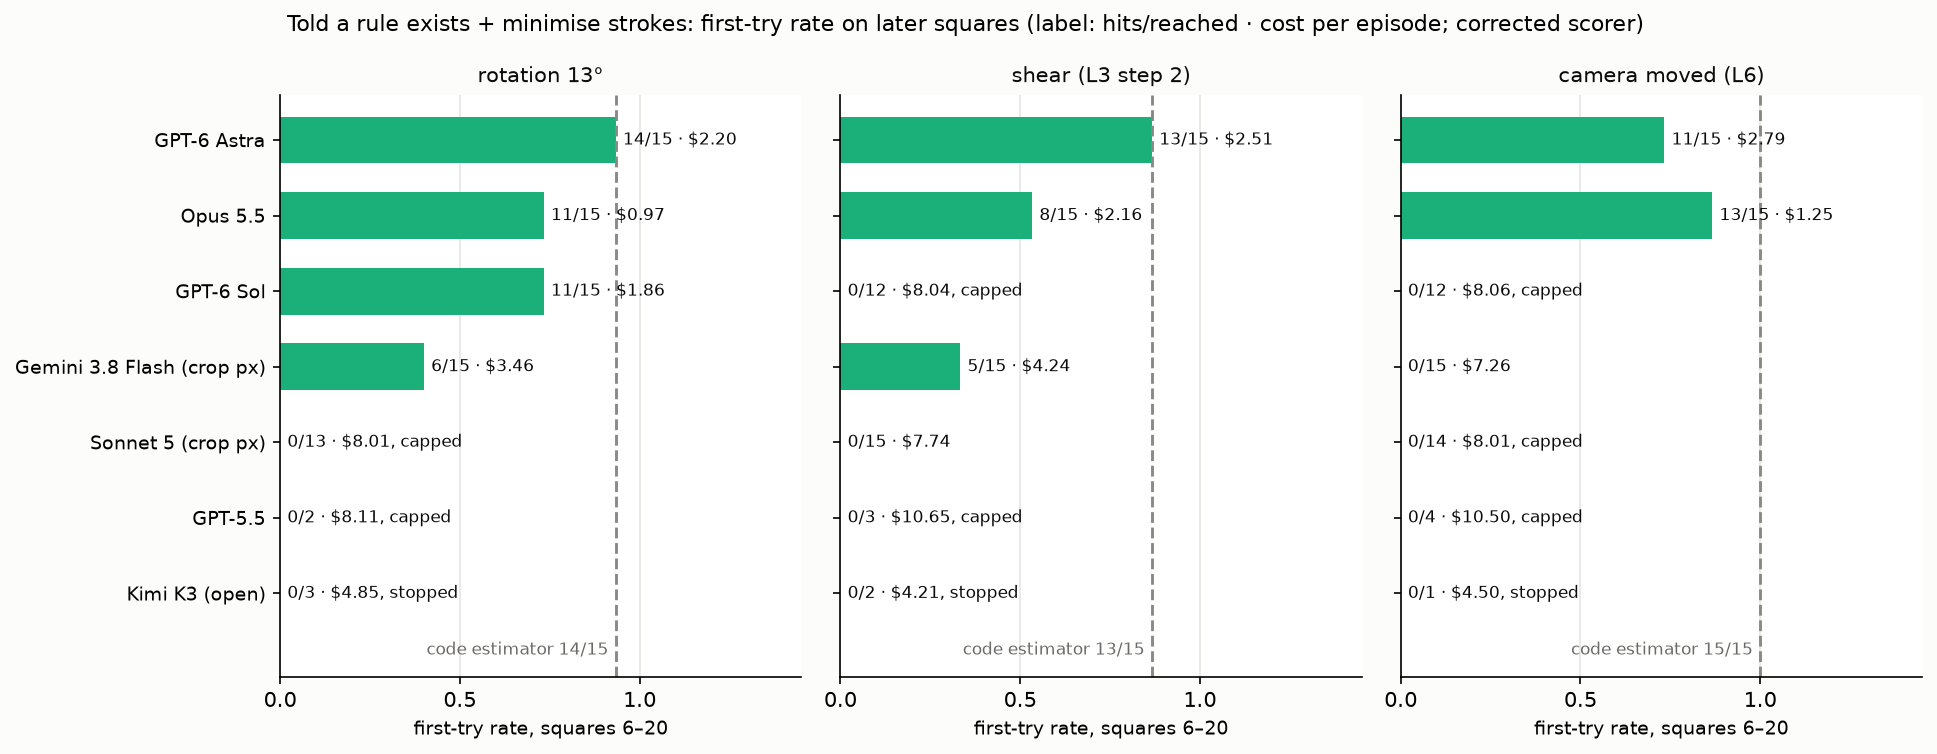
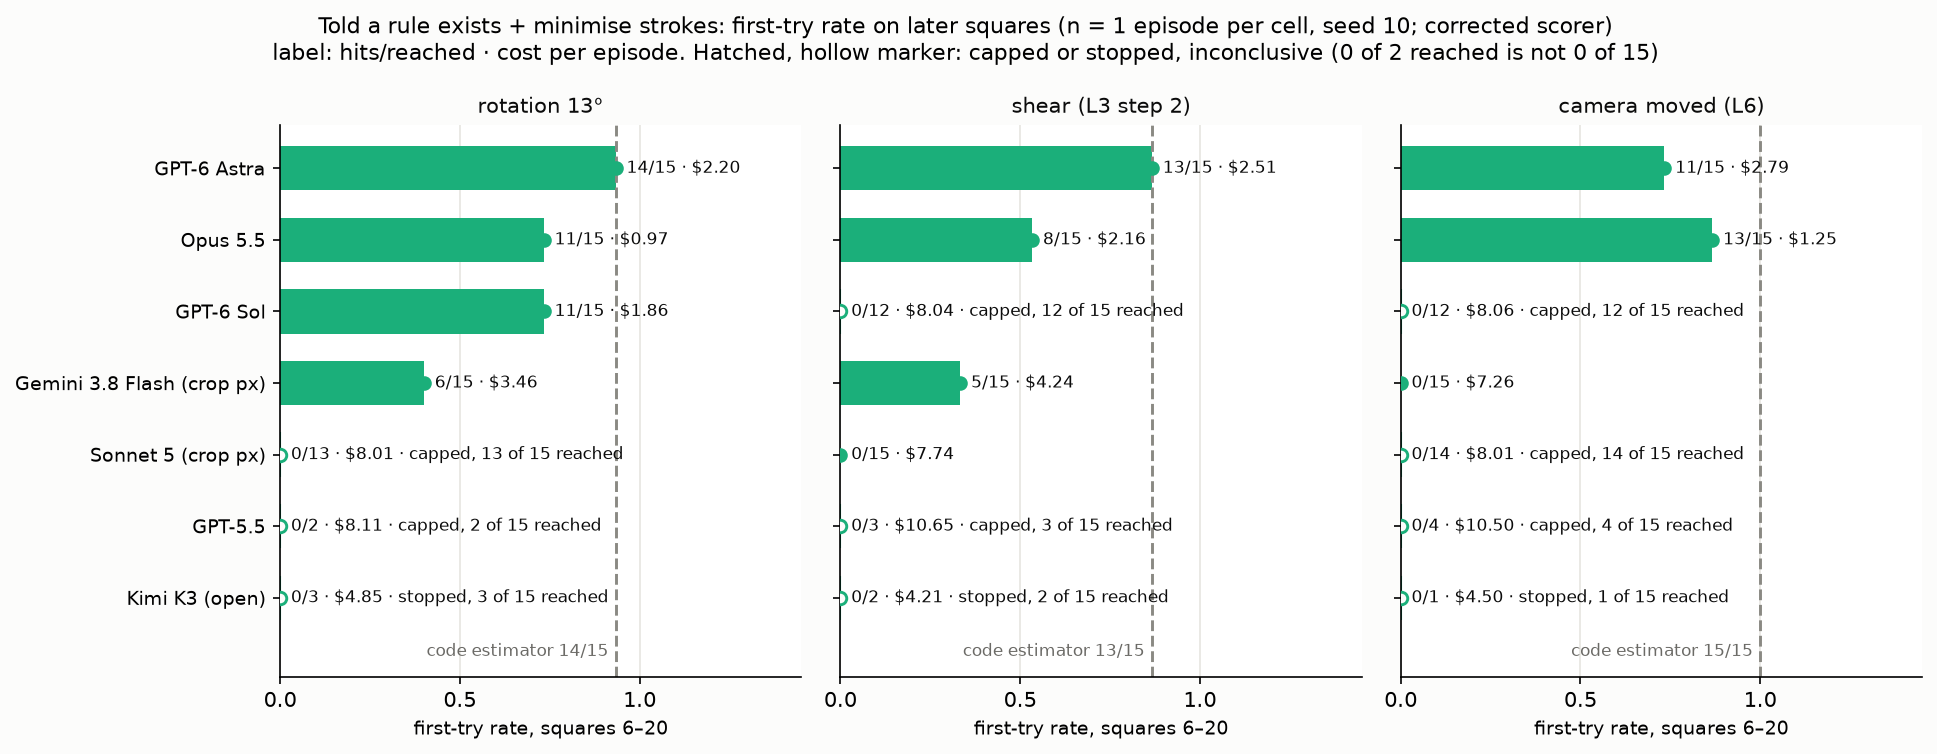
Figures state the evidence level and mark inconclusive cells; table name matches docs
- Every study chart title now says "n = 1 episode per cell, seed 10" (computed from the runs).
- A capped or stopped episode is drawn differently from a complete one: hatched bar with a hollow end marker and
  "capped, 2 of 15 reached" in the bars; the never-reached squares hatched in the grid. 0/2 no longer looks
  like 0/15.
- `freehand figures` writes informed_summary.csv (informed_summary_legacy_scorer.csv under --scorer legacy),
  the names tracked in docs/figures, and warns when the runs have no episode of the chosen arm.

docs/figures regenerated: only titles, labels and the inconclusive styling changed; both CSVs are byte-identical.

diff --git a/src/freehand/analysis/figures.py b/src/freehand/analysis/figures.py
@@ -6,10 +6,14 @@ are regenerated by this package from the imported runs:
 
   learning_curves_grid.png   rows = models (ordered by pooled first-try rate on the later squares), columns = rules;
                              first-try hit per post-change square (dots) and its 3-square running mean (line) for the
-                             focus arm, the ideal code estimator dashed, the silent arm faint where it exists
-  first_try_bars.png         later-square first-try rate per model, one panel per rule, the estimator as a line
+                             focus arm, the ideal code estimator dashed, the silent arm faint where it exists; squares
+                             a capped or stopped episode never reached are hatched
+  first_try_bars.png         later-square first-try rate per model, one panel per rule, the estimator as a line;
+                             capped or stopped episodes are hatched with a hollow end marker (0/2 reached is not 0/15)
   learning_curves_all_arms.png   every arm of the models that ran all of them (Opus 5.5, GPT-6 Astra)
-  summary.csv                model x rule for the focus arm, the historical columns
+  informed_summary.csv       model x rule for the focus arm, the historical columns (`<arm>_summary.csv` for another
+                             arm; `_legacy_scorer` appended under --scorer legacy)
+Every title states the evidence level: episodes per cell and the seeds.
 
 `scorer="corrected"` (default) uses freehand.scoring (an interrupted square whose first stroke missed counts as a
 miss); `scorer="legacy"` reproduces the historical per-square-results scorer, to check parity with the old reports.
@@ -17,6 +21,8 @@ miss); `scorer="legacy"` reproduces the historical per-square-results scorer, to
 from __future__ import annotations
 
 import csv
+import warnings
+from collections import Counter
 from pathlib import Path
 
 import numpy as np
@@ -124,6 +130,27 @@ def _status_label(r: dict) -> str:
     return cost if r["status"] == "complete" else f"{cost} · {r['status']} at sq {r['squares_done']}"
 
 
+def evidence(rows: list[dict]) -> str:
+    """The evidence level of the model rows, for chart titles: "n = 1 episode per cell, seed 10"."""
+    models = [r for r in rows if r["kind"] == "model"]
+    per_cell = Counter((r["agent"], r["perturbation"], r["arm"]) for r in models)
+    lo, n = min(per_cell.values(), default=0), max(per_cell.values(), default=0)
+    seeds = sorted({r["seed"] for r in models})
+    count = f"n = {n}" if lo == n else f"n = {lo}-{n}"
+    return (f"{count} episode{'s' if n != 1 else ''} per cell, "
+            + (f"seed {seeds[0]}" if len(seeds) == 1 else f"seeds {', '.join(map(str, seeds))}"))
+
+
+def _inconclusive(r: dict) -> bool:
+    return r["status"] != "complete"
+
+
+def _reached(r: dict) -> tuple[int, int]:
+    """(later squares reached, later squares planned)."""
+    later = r["curve"][1:]
+    return sum(v is not None for v in later), len(later)
+
+
 # ---------------------------------------------------------------- figures
 def learning_curves_grid(rows: list[dict], out_png: Path, arm: str = FOCUS_ARM, title: str | None = None) -> None:
     plt = _plt()
@@ -141,6 +168,12 @@ def learning_curves_grid(rows: list[dict], out_png: Path, arm: str = FOCUS_ARM, 
                 ax.plot(_xs(sil), _mean3(sil["curve"])[1], color=C_SILENT, lw=1.6, alpha=0.35,
                         label="silent (same model)")
             r = find(rows, agent, p, arm)
+            if r and _inconclusive(r):
+                reached = [x for x, v in zip(_xs(r), r["curve"], strict=True) if v is not None]
+                start = (reached[-1] if reached else _xs(r)[0] - 1) + 0.5
+                if start < r["n_squares"] + 0.5:
+                    ax.axvspan(start, r["n_squares"] + 0.5, facecolor="none", edgecolor=GRID, hatch="///", lw=0,
+                               label="not reached (episode capped or stopped)")
             if r:
                 y, m = _mean3(r["curve"])
                 ax.plot(_xs(r), m, color=C_ARM, lw=2.2, label=ARM_LABELS.get(arm, arm))
@@ -163,9 +196,10 @@ def learning_curves_grid(rows: list[dict], out_png: Path, arm: str = FOCUS_ARM, 
     fig.tight_layout(rect=(0, 0, 1, 1 - 0.95 / fig.get_figheight()))
     top = 1 - 0.1 / fig.get_figheight()
     scorer = rows[0].get("scorer", "corrected") if rows else "corrected"
+    n_sq = max((r["n_squares"] for r in rows if r["kind"] == "model"), default=0)
     fig.suptitle(title or ("First-try hit on each square after the change, told a consistent rule exists + minimise "
-                           "strokes\n(seed 10, 20 squares in far-apart order; dots 0/1, line 3-square mean; label: "
-                           f"hits on squares 6–20 reached · cost; {scorer} scorer)"),
+                           f"strokes ({evidence(rows)})\n{n_sq} squares in far-apart order; dots 0/1, line 3-square "
+                           f"mean; label: later-square hits/reached · cost; hatched: never reached; {scorer} scorer"),
                  fontsize=10.5, y=top, va="top")
     _legend(fig, axes, 3, top - 0.5 / fig.get_figheight())
     fig.savefig(out_png, dpi=150, bbox_inches="tight", facecolor=SURFACE)
@@ -187,9 +221,16 @@ def first_try_bars(rows: list[dict], out_png: Path, arm: str = FOCUS_ARM) -> Non
                 continue
             h, n = _later(r)
             v = h / n if n else 0.0
-            ax.barh(y, v, height=0.62, color=C_ARM)
-            tag = "" if r["status"] == "complete" else f", {r['status']}"
-            ax.text(v + 0.02, y, f"{h}/{n} · ${r['cost_usd']:.2f}{tag}", va="center", fontsize=8, color=INK)
+            if _inconclusive(r):
+                reached, planned = _reached(r)
+                ax.barh(y, v, height=0.62, facecolor=SURFACE, edgecolor=C_ARM, hatch="///", lw=1.0)
+                ax.plot([v], [y], marker="o", ms=6, mfc=SURFACE, mec=C_ARM, mew=1.4, zorder=3)
+                tag = f" · {r['status']}, {reached} of {planned} reached"
+            else:
+                ax.barh(y, v, height=0.62, color=C_ARM)
+                ax.plot([v], [y], marker="o", ms=6, color=C_ARM, zorder=3)
+                tag = ""
+            ax.text(v + 0.03, y, f"{h}/{n} · ${r['cost_usd']:.2f}{tag}", va="center", fontsize=8, color=INK)
         if ref:
             h, n = _later(ref)
             ax.axvline(h / n, color=C_CODE, ls="--", lw=1.4)
@@ -207,8 +248,9 @@ def first_try_bars(rows: list[dict], out_png: Path, arm: str = FOCUS_ARM) -> Non
     axes[0][0].set_yticks(yy)
     axes[0][0].set_yticklabels([NAMES.get(m, m) for m in models], fontsize=9)
     scorer = rows[0].get("scorer", "corrected") if rows else "corrected"
-    fig.suptitle("Told a rule exists + minimise strokes: first-try rate on later squares (label: hits/reached · cost "
-                 f"per episode; {scorer} scorer)", fontsize=10.5)
+    fig.suptitle("Told a rule exists + minimise strokes: first-try rate on later squares "
+                 f"({evidence(rows)}; {scorer} scorer)\nlabel: hits/reached · cost per episode. Hatched, hollow "
+                 "marker: capped or stopped, inconclusive (0 of 2 reached is not 0 of 15)", fontsize=10.5)
     fig.tight_layout()
     fig.savefig(out_png, dpi=150, bbox_inches="tight", facecolor=SURFACE)
     plt.close(fig)
@@ -245,7 +287,7 @@ def all_arms_curves(rows: list[dict], out_png: Path, agents: tuple[str, ...] = (
                 ax.set_ylabel("first-try hit\n(dots: 0/1; line: 3-square mean)")
     n_leg = len(arms) + 1
     scorer = rows[0].get("scorer", "corrected") if rows else "corrected"
-    fig.suptitle("Do models carry a model of the change to the next square? (seed 10, far-apart order, 20 squares; "
+    fig.suptitle(f"Do models carry a model of the change to the next square? ({evidence(rows)}; far-apart order; "
                  f"{scorer} scorer)", y=1.05 + 0.03 * ((n_leg - 1) // 3), fontsize=11)
     _legend(fig, axes, 3, 1.015)
     fig.tight_layout()
@@ -272,19 +314,31 @@ def summary_table(rows: list[dict], out_csv: Path, arm: str = FOCUS_ARM) -> list
     return out
 
 
+def table_name(arm: str = FOCUS_ARM, scorer: str = "corrected") -> str:
+    """informed_summary.csv (the tracked docs/figures name) for the informed arm; <arm>_summary.csv otherwise."""
+    stem = "informed" if arm == FOCUS_ARM else arm
+    return f"{stem}_summary{'_legacy_scorer' if scorer == 'legacy' else ''}.csv"
+
+
 def write_figures(run_dirs: list[Path], out: Path, scorer: str = "corrected", arm: str = FOCUS_ARM) -> dict:
     out.mkdir(parents=True, exist_ok=True)
     rows = study_rows(run_dirs, scorer)
     focus = [r for r in rows if r["arm"] in (arm, "silent", "code")]
     written: dict[str, str] = {}
+    notes: list[str] = []
     if any(r["arm"] == arm for r in rows):
         learning_curves_grid(focus, out / "learning_curves_grid.png", arm)
         first_try_bars(focus, out / "first_try_bars.png", arm)
-        summary_table(rows, out / "summary.csv", arm)
-        written.update(grid="learning_curves_grid.png", bars="first_try_bars.png", table="summary.csv")
+        summary_table(rows, out / table_name(arm, scorer), arm)
+        written.update(grid="learning_curves_grid.png", bars="first_try_bars.png", table=table_name(arm, scorer))
+    else:
+        arms = sorted({r["arm"] for r in rows if r["kind"] == "model"})
+        notes.append(f"no episode of the arm {arm!r} in these runs (arms: {arms}): no grid, bars or table written; "
+                     "pass --arm")
+        warnings.warn(notes[-1], stacklevel=2)
     agents = tuple(a for a in ("claude-opus-5.5", "gpt-6-astra")
                    if len({r["arm"] for r in rows if r["agent"] == a}) > 1)
     if agents:
         all_arms_curves(rows, out / "learning_curves_all_arms.png", agents)
         written["all_arms"] = "learning_curves_all_arms.png"
-    return {"out": str(out), "scorer": scorer, "models": model_order(rows, arm), "files": written}
+    return {"out": str(out), "scorer": scorer, "models": model_order(rows, arm), "files": written, "warnings": notes}

diff --git a/tests/test_figures.py b/tests/test_figures.py
@@ -17,9 +17,9 @@ def test_figures_from_a_run(results_root, tmp_path):
     d = Runner(parse_experiment(CONFIG, yaml.safe_dump(CONFIG)), RunOptions(fake_models=True)).run()
     out = tmp_path / "figs"
     assert cli.main(["figures", str(d), "--out", str(out)]) == 0
-    for f in ("learning_curves_grid.png", "first_try_bars.png", "summary.csv"):
+    for f in ("learning_curves_grid.png", "first_try_bars.png", "informed_summary.csv"):
         assert (out / f).stat().st_size > 0
-    with open(out / "summary.csv") as f:
+    with open(out / "informed_summary.csv") as f:
         table = list(csv.reader(f))
     assert table[0] == TABLE_COLS and len(table) == 1 + 2              # one model x two rules, the focus arm
     rows = study_rows([d])
@@ -38,6 +38,21 @@ def test_figures_from_a_run(results_root, tmp_path):
         if r["status"] == "complete":
             assert r["curve"] == old["curve"]
     assert any(r["status"] == "capped" for r in rows)                   # the $0.02 episode cap interrupts some
+
+
+def test_figures_warn_when_the_runs_have_no_such_arm(results_root, tmp_path):
+    import warnings
+
+    from freehand.analysis.figures import evidence, write_figures
+    d = Runner(parse_experiment(CONFIG, yaml.safe_dump(CONFIG)), RunOptions(fake_models=True)).run()
+    with warnings.catch_warnings(record=True) as w:
+        warnings.simplefilter("always")
+        out = write_figures([d], tmp_path / "f", arm="stateless_numeric")
+    assert out["warnings"] and "no episode of the arm 'stateless_numeric'" in str(w[0].message)
+    assert "grid" not in out["files"]
+    assert evidence(study_rows([d])) == "n = 1 episode per cell, seed 1"
+    legacy = write_figures([d], tmp_path / "g", scorer="legacy")
+    assert legacy["files"]["table"] == "informed_summary_legacy_scorer.csv"
 
 
 def test_quote_bank_fields_and_deterministic_gzip(results_root, tmp_path):
